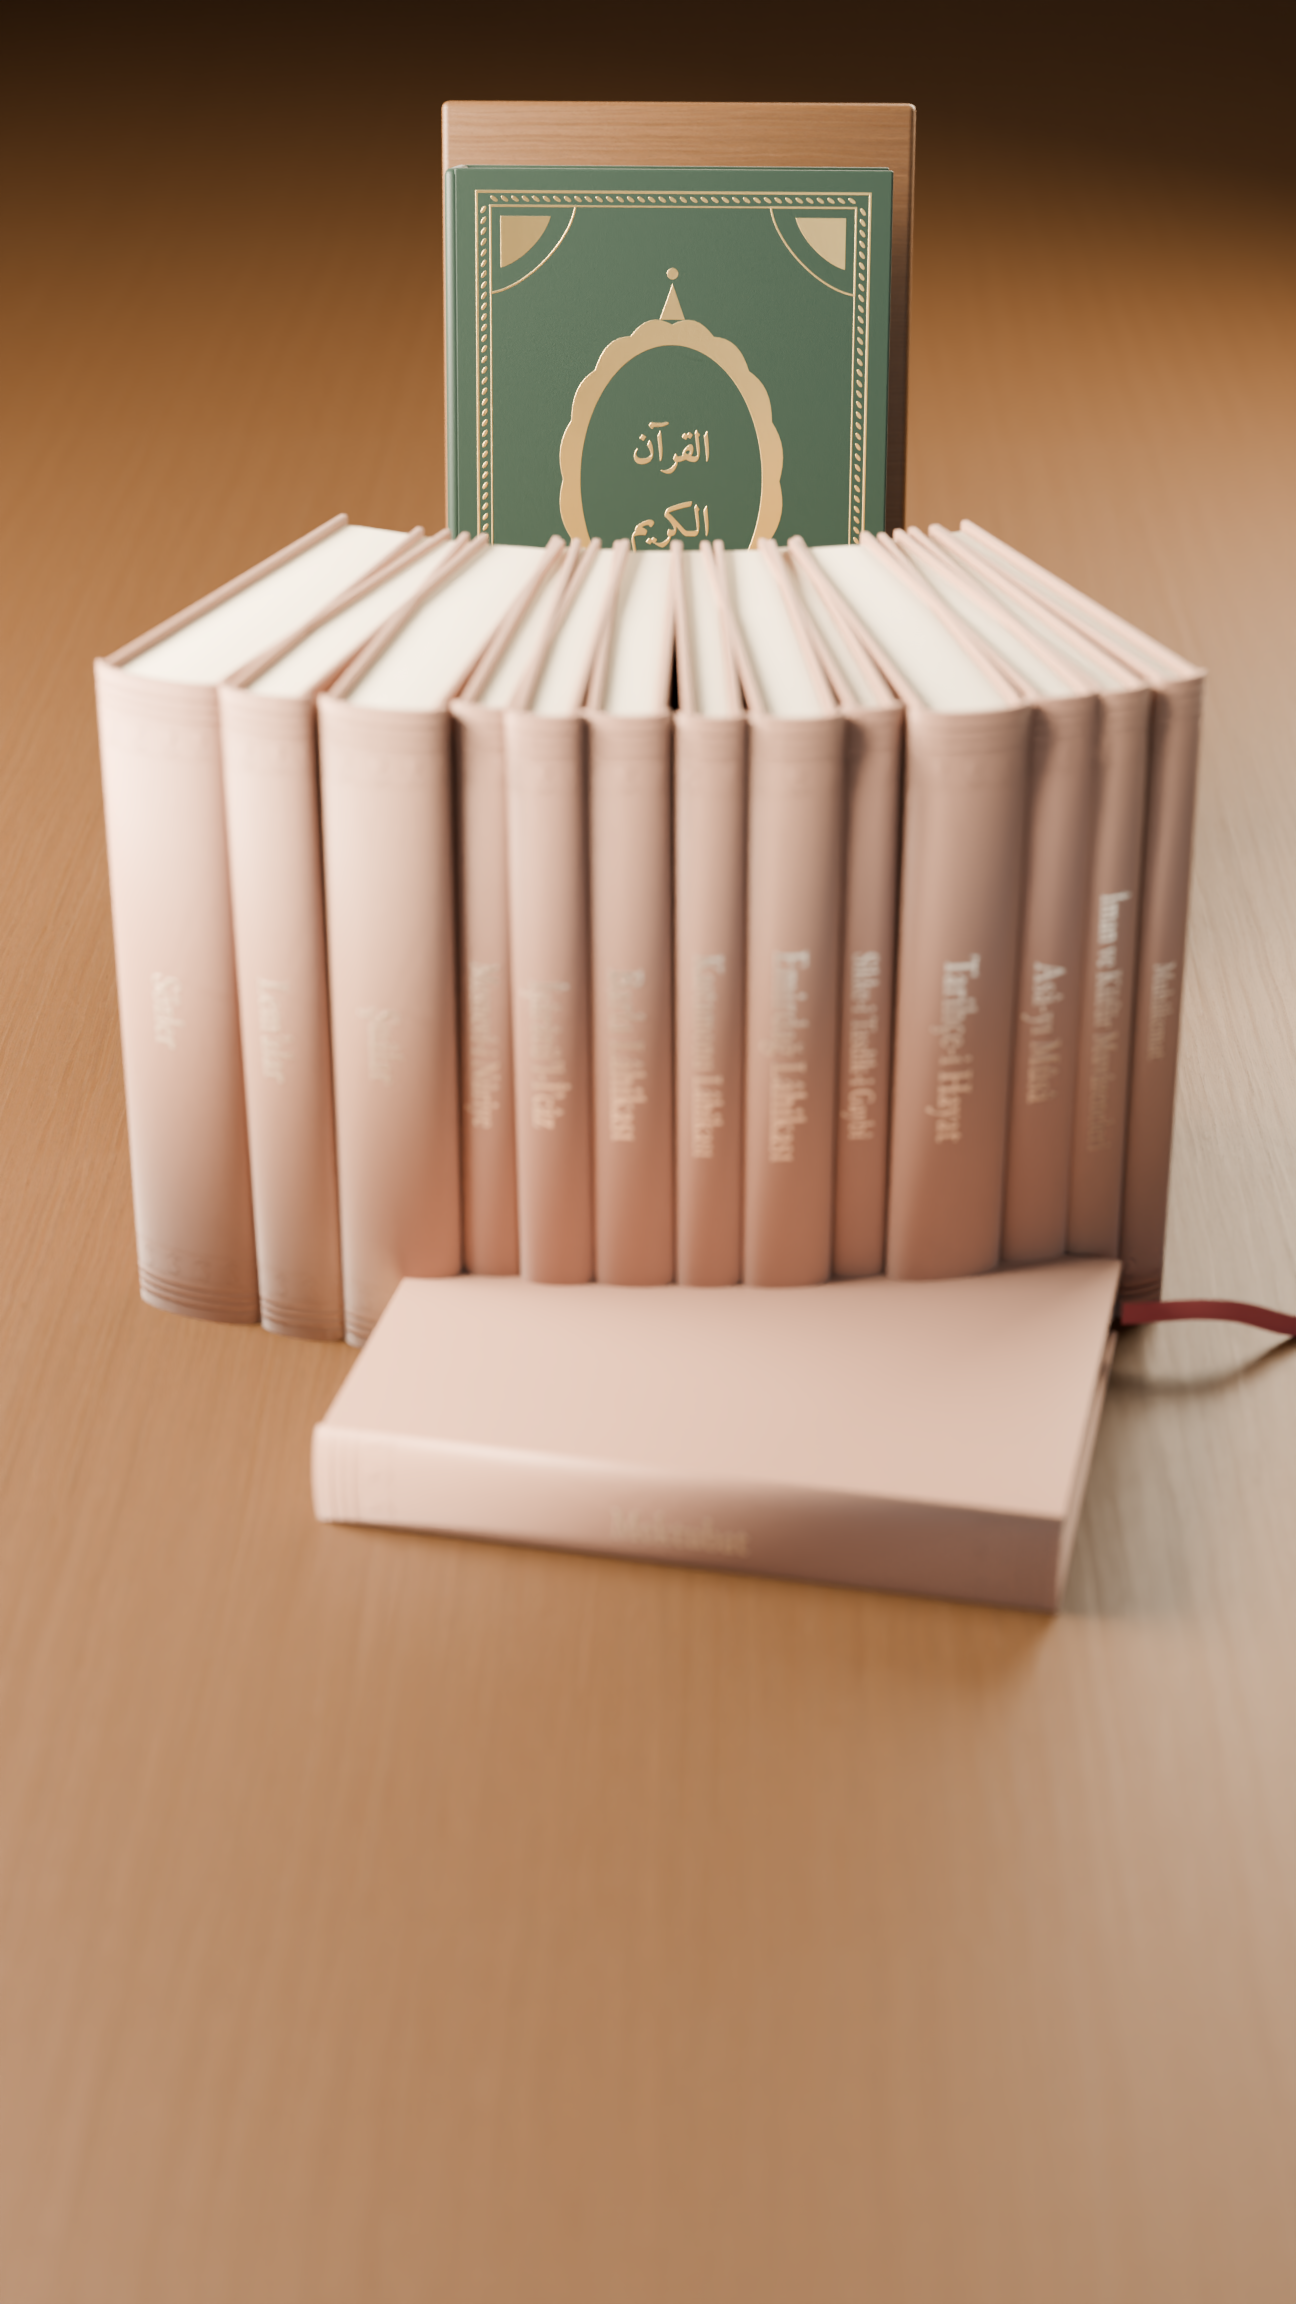
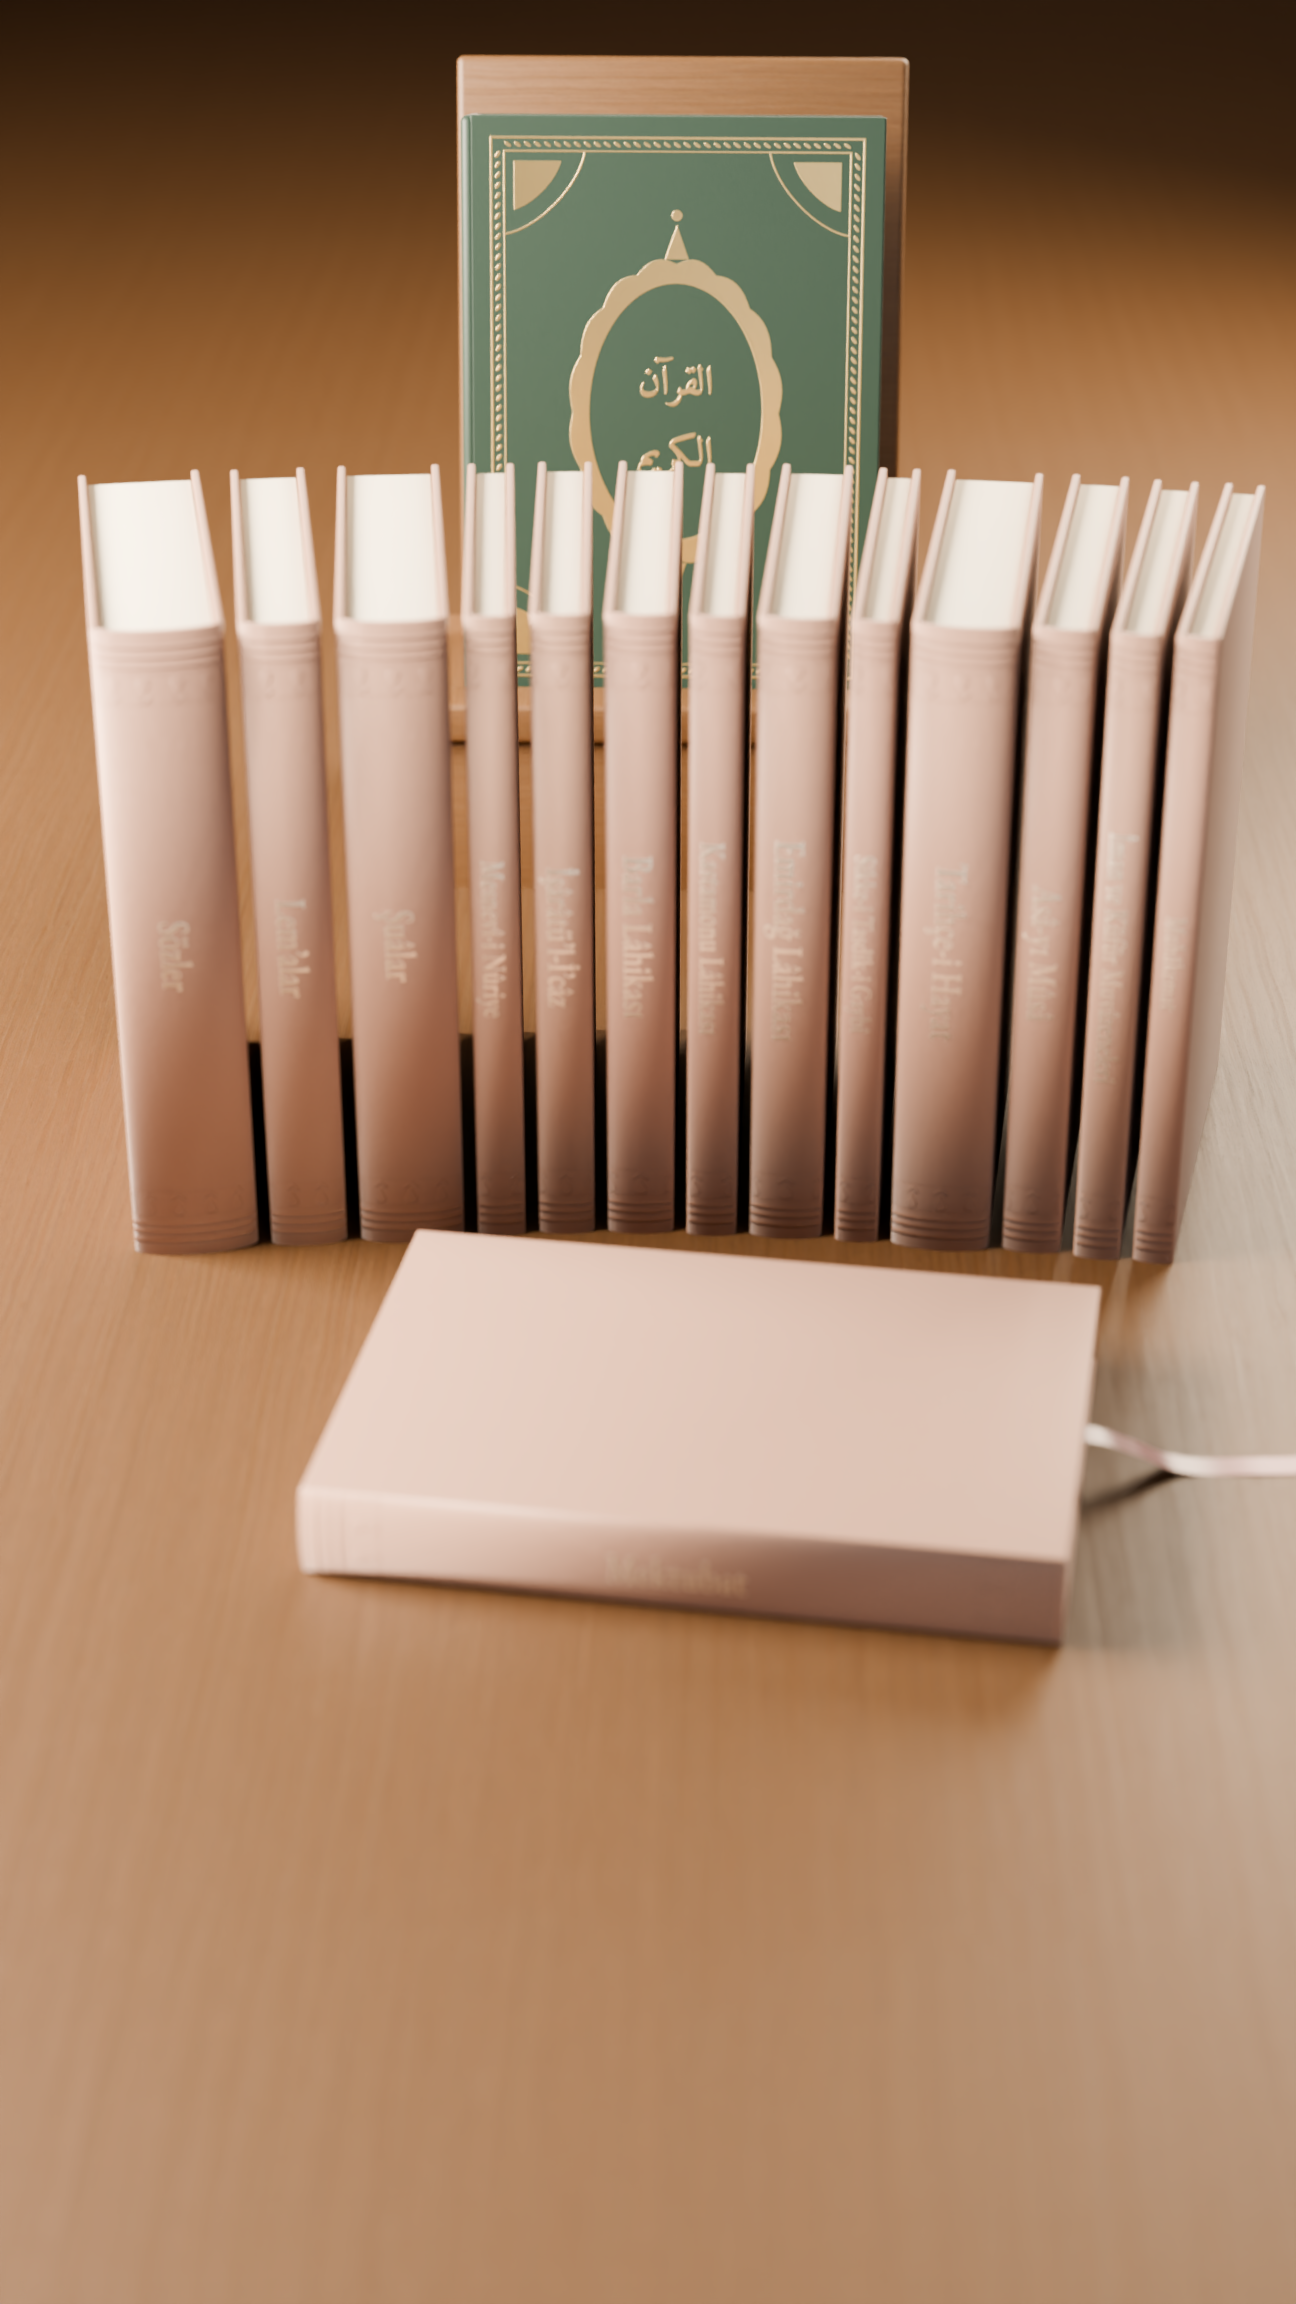
Kapanış: koyu kırmızı mat ipek kurdele, yeni dizilişin fotoğraf kareleri
Claude-Session: https://claude.ai/code/session_01Q8Cfo9NEHyTAXSmEyWtyDV

Changed region(s): [[0.0617, 0.0, 1.0, 0.6562], [0.216, 0.625, 0.8951, 0.75]]

diff --git a/video-uretim/yirminci-mektup/kapanis/sahne.py b/video-uretim/yirminci-mektup/kapanis/sahne.py
@@ -178,9 +178,10 @@ def ipek(ad, renk):
     bsdf = nodes.new('ShaderNodeBsdfPrincipled')
     links.new(bsdf.outputs['BSDF'], out.inputs['Surface'])
     bsdf.inputs['Base Color'].default_value = (*renk, 1)
-    bsdf.inputs['Roughness'].default_value = 0.32
-    bsdf.inputs['Sheen Weight'].default_value = 0.6
-    bsdf.inputs['Specular IOR Level'].default_value = 0.6
+    bsdf.inputs['Roughness'].default_value = 0.72
+    bsdf.inputs['Sheen Weight'].default_value = 0.12
+    bsdf.inputs['Sheen Tint'].default_value = (*renk, 1)
+    bsdf.inputs['Specular IOR Level'].default_value = 0.12
     return mat
 
 # ---------------------------------------------------------------- geometri yardımcıları
@@ -319,9 +320,9 @@ def kurdele():
     sp = cu.splines.new('BEZIER'); sp.bezier_points.add(len(noktalar) - 1)
     for p, c in zip(sp.bezier_points, noktalar):
         p.co = c; p.handle_left_type = p.handle_right_type = 'AUTO'
-    cu.extrude = 0.0048; cu.twist_mode = 'MINIMUM'
+    cu.extrude = 0.0055; cu.twist_mode = 'MINIMUM'
     ob = bpy.data.objects.new('kurdele', cu); sc.collection.objects.link(ob)
-    ob.data.materials.append(ipek('ipek', (0.22, 0.025, 0.035)))
+    ob.data.materials.append(ipek('ipek', (0.13, 0.012, 0.02)))
     return ob
 kur = kurdele()
 kur.parent = mektubat
